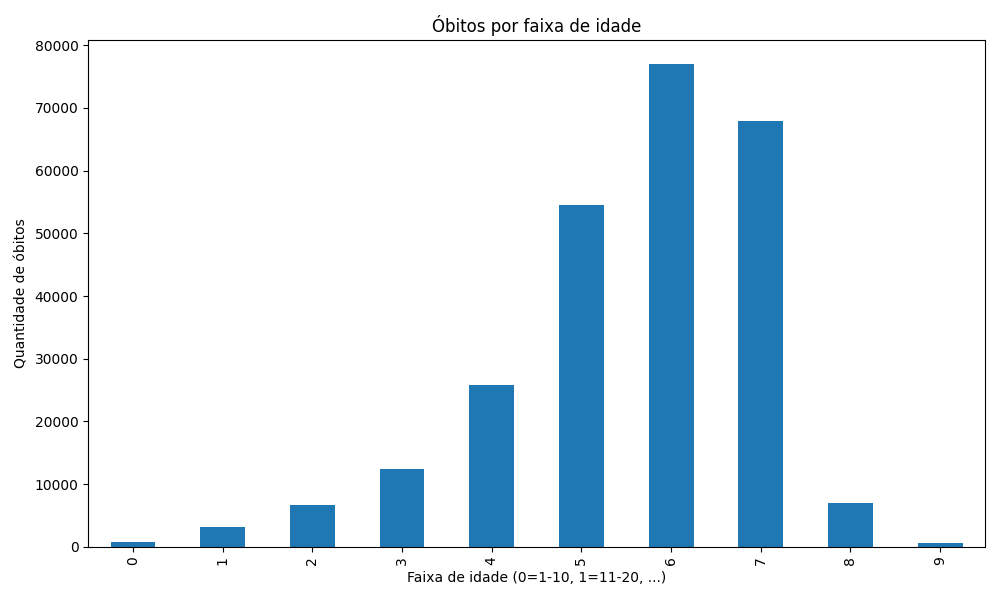
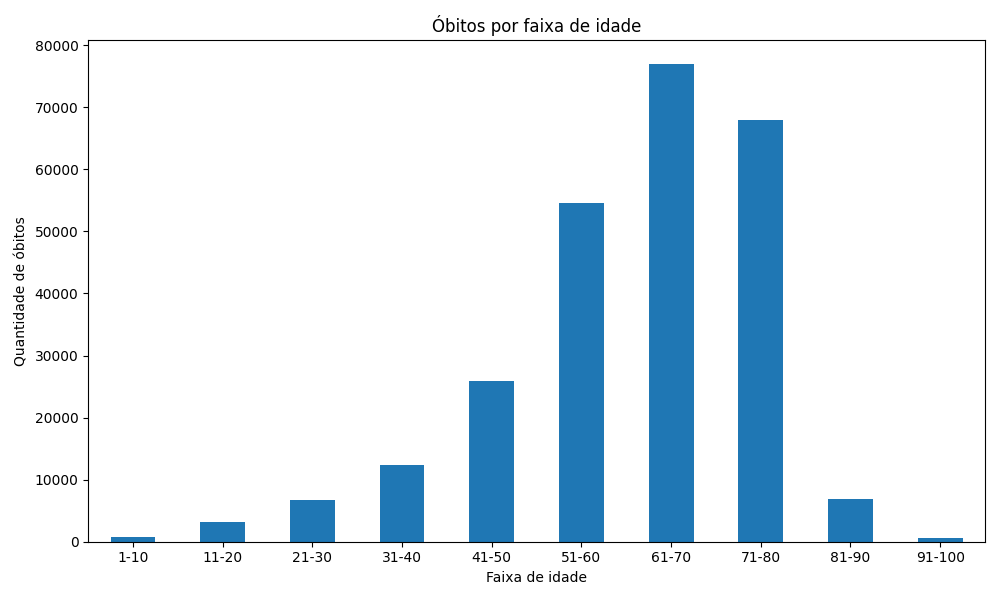
alteração gráficos

diff --git a/src/capstone_datasus/pipelines/pipe_05_analyze_obits/nodes.py b/src/capstone_datasus/pipelines/pipe_05_analyze_obits/nodes.py
@@ -11,27 +11,26 @@ def obits_per_age_barplot(
     col_idade: str = "PA_IDADE",
     col_obito: str = "PA_OBITO",
 ) -> None:
-
     """
     Gera um gráfico de barras com a quantidade de óbitos (PA_OBITO == 1)
     por faixa de idade (bucketizada) e salva no caminho especificado.
 
     Regras:
-    - Ignora idades < 1 ou == 100
+    - Ignora idades < 1
     - Bucketização:
         1-10   -> 0
         11-20  -> 1
         21-30  -> 2
         ...
+        91-100 -> 9
     """
 
     logger = logging.getLogger(__name__)
 
     # Removendo registros do tipo Consolidado pois não são dados individuais
-    df = df[df["PA_DOCORIG"] != 'C']
+    df = df[df["PA_DOCORIG"] != "C"]
 
-
-    # Mantém apenas as colunas necessárias (caso venham mais)
+    # Mantém apenas as colunas necessárias
     df = df[[col_idade, col_obito]].copy()
 
     # Garante tipo numérico
@@ -41,7 +40,7 @@ def obits_per_age_barplot(
     # Remove valores inválidos
     df = df[(df[col_idade] >= 1) & (df[col_idade] <= 100)]
 
-    # Bucketização de idade
+    # Bucketização
     df["idade_bucket"] = ((df[col_idade] - 1) // 10).astype(int)
 
     # Filtra apenas óbitos
@@ -58,10 +57,16 @@ def obits_per_age_barplot(
 
     # Plot
     plt.figure(figsize=(10, 6))
-    counts.plot(kind="bar")
+    ax = counts.plot(kind="bar")
+
+    labels = [
+        "1-10" if i == 0 else f"{i*10+1}-{(i+1)*10}"
+        for i in counts.index
+    ]
+    ax.set_xticklabels(labels, rotation=0)
 
     plt.title("Óbitos por faixa de idade")
-    plt.xlabel("Faixa de idade (0=1-10, 1=11-20, ...)")
+    plt.xlabel("Faixa de idade")
     plt.ylabel("Quantidade de óbitos")
 
     plt.tight_layout()
@@ -82,22 +87,23 @@ def obits_rate_per_age_barplot(
     col_obito: str = "PA_OBITO",
 ) -> None:
     """
-    Gera um gráfico de barras com o percentual de óbitos (PA_OBITO == 1)
+    Gera um gráfico de barras com o percentual de óbitos
     por faixa de idade e salva no caminho especificado.
 
     Regras:
-    - Ignora idades < 1 ou == 100
+    - Ignora idades < 1
     - Bucketização:
         1-10   -> 0
         11-20  -> 1
         21-30  -> 2
         ...
+        91-100 -> 9
     """
 
     logger = logging.getLogger(__name__)
 
     # Removendo registros do tipo Consolidado pois não são dados individuais
-    df = df[df["PA_DOCORIG"] != 'C']
+    df = df[df["PA_DOCORIG"] != "C"]
 
     # Mantém apenas colunas necessárias
     df = df[[col_idade, col_obito]].copy()
@@ -118,17 +124,24 @@ def obits_rate_per_age_barplot(
     # Total de óbitos por bucket
     obitos = df[df[col_obito] == 1].groupby("idade_bucket").size()
 
-    # Calcula percentual (alinhando índices)
+    # Calcula percentual
     percentual = (obitos / total).fillna(0) * 100
+    percentual = percentual.sort_index()
 
     logger.info("Percentual de óbitos por faixa:\n%s", percentual)
 
     # Plot
     plt.figure(figsize=(10, 6))
-    percentual.sort_index().plot(kind="bar")
+    ax = percentual.plot(kind="bar")
+
+    labels = [
+        "1-10" if i == 0 else f"{i*10+1}-{(i+1)*10}"
+        for i in percentual.index
+    ]
+    ax.set_xticklabels(labels, rotation=0)
 
     plt.title("Percentual de óbitos por faixa de idade")
-    plt.xlabel("Faixa de idade (0=1-10, 1=11-20, ...)")
+    plt.xlabel("Faixa de idade")
     plt.ylabel("% de óbitos")
 
     plt.tight_layout()

diff --git a/src/capstone_datasus/pipelines/pipe_10_analyze_uf/nodes.py b/src/capstone_datasus/pipelines/pipe_10_analyze_uf/nodes.py
@@ -11,6 +11,7 @@ def analyze_mndif_vs_death(
     col_mndif: str = "PA_MNDIF",
     col_obito: str = "PA_OBITO"
 ) -> pd.DataFrame:
+    breakpoint()
     """
     Analisa se pacientes de outro município (PA_MNDIF) têm maior taxa de óbito.
 
